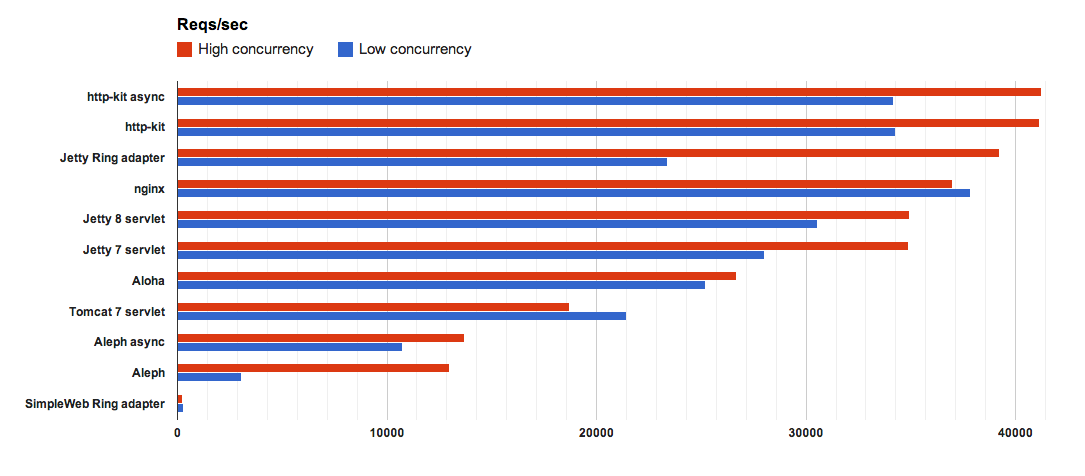
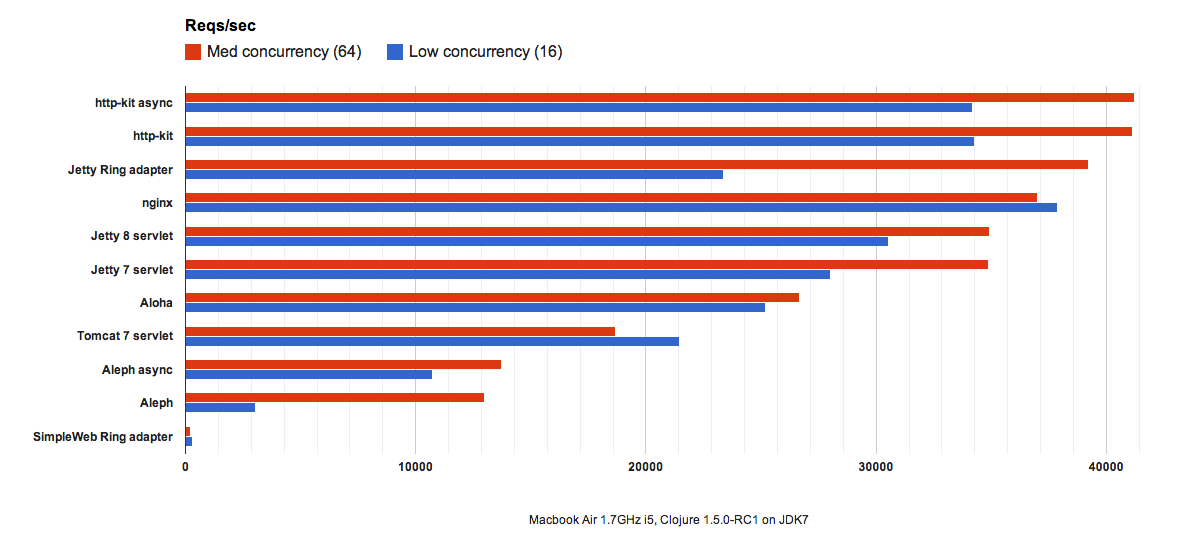
Rename 'high concurrency' -> 'medium concurrency'

diff --git a/README.md b/README.md
@@ -27,7 +27,7 @@
   * See `scripts/bench.sh` for full details, including OS and TCP tuning.
   * See `servers/nginx.conf` for nginx config. **TODO**: Improve. Suggestions?
   * **Low concurrency**: `ab -n 100000 -c 16 -k`.
-  * **High concurrency**: `ab -n 100000 -c 64 -k`.
+  * **Medium concurrency**: `ab -n 100000 -c 64 -k`.
 
 ## Contact & contribution
 
